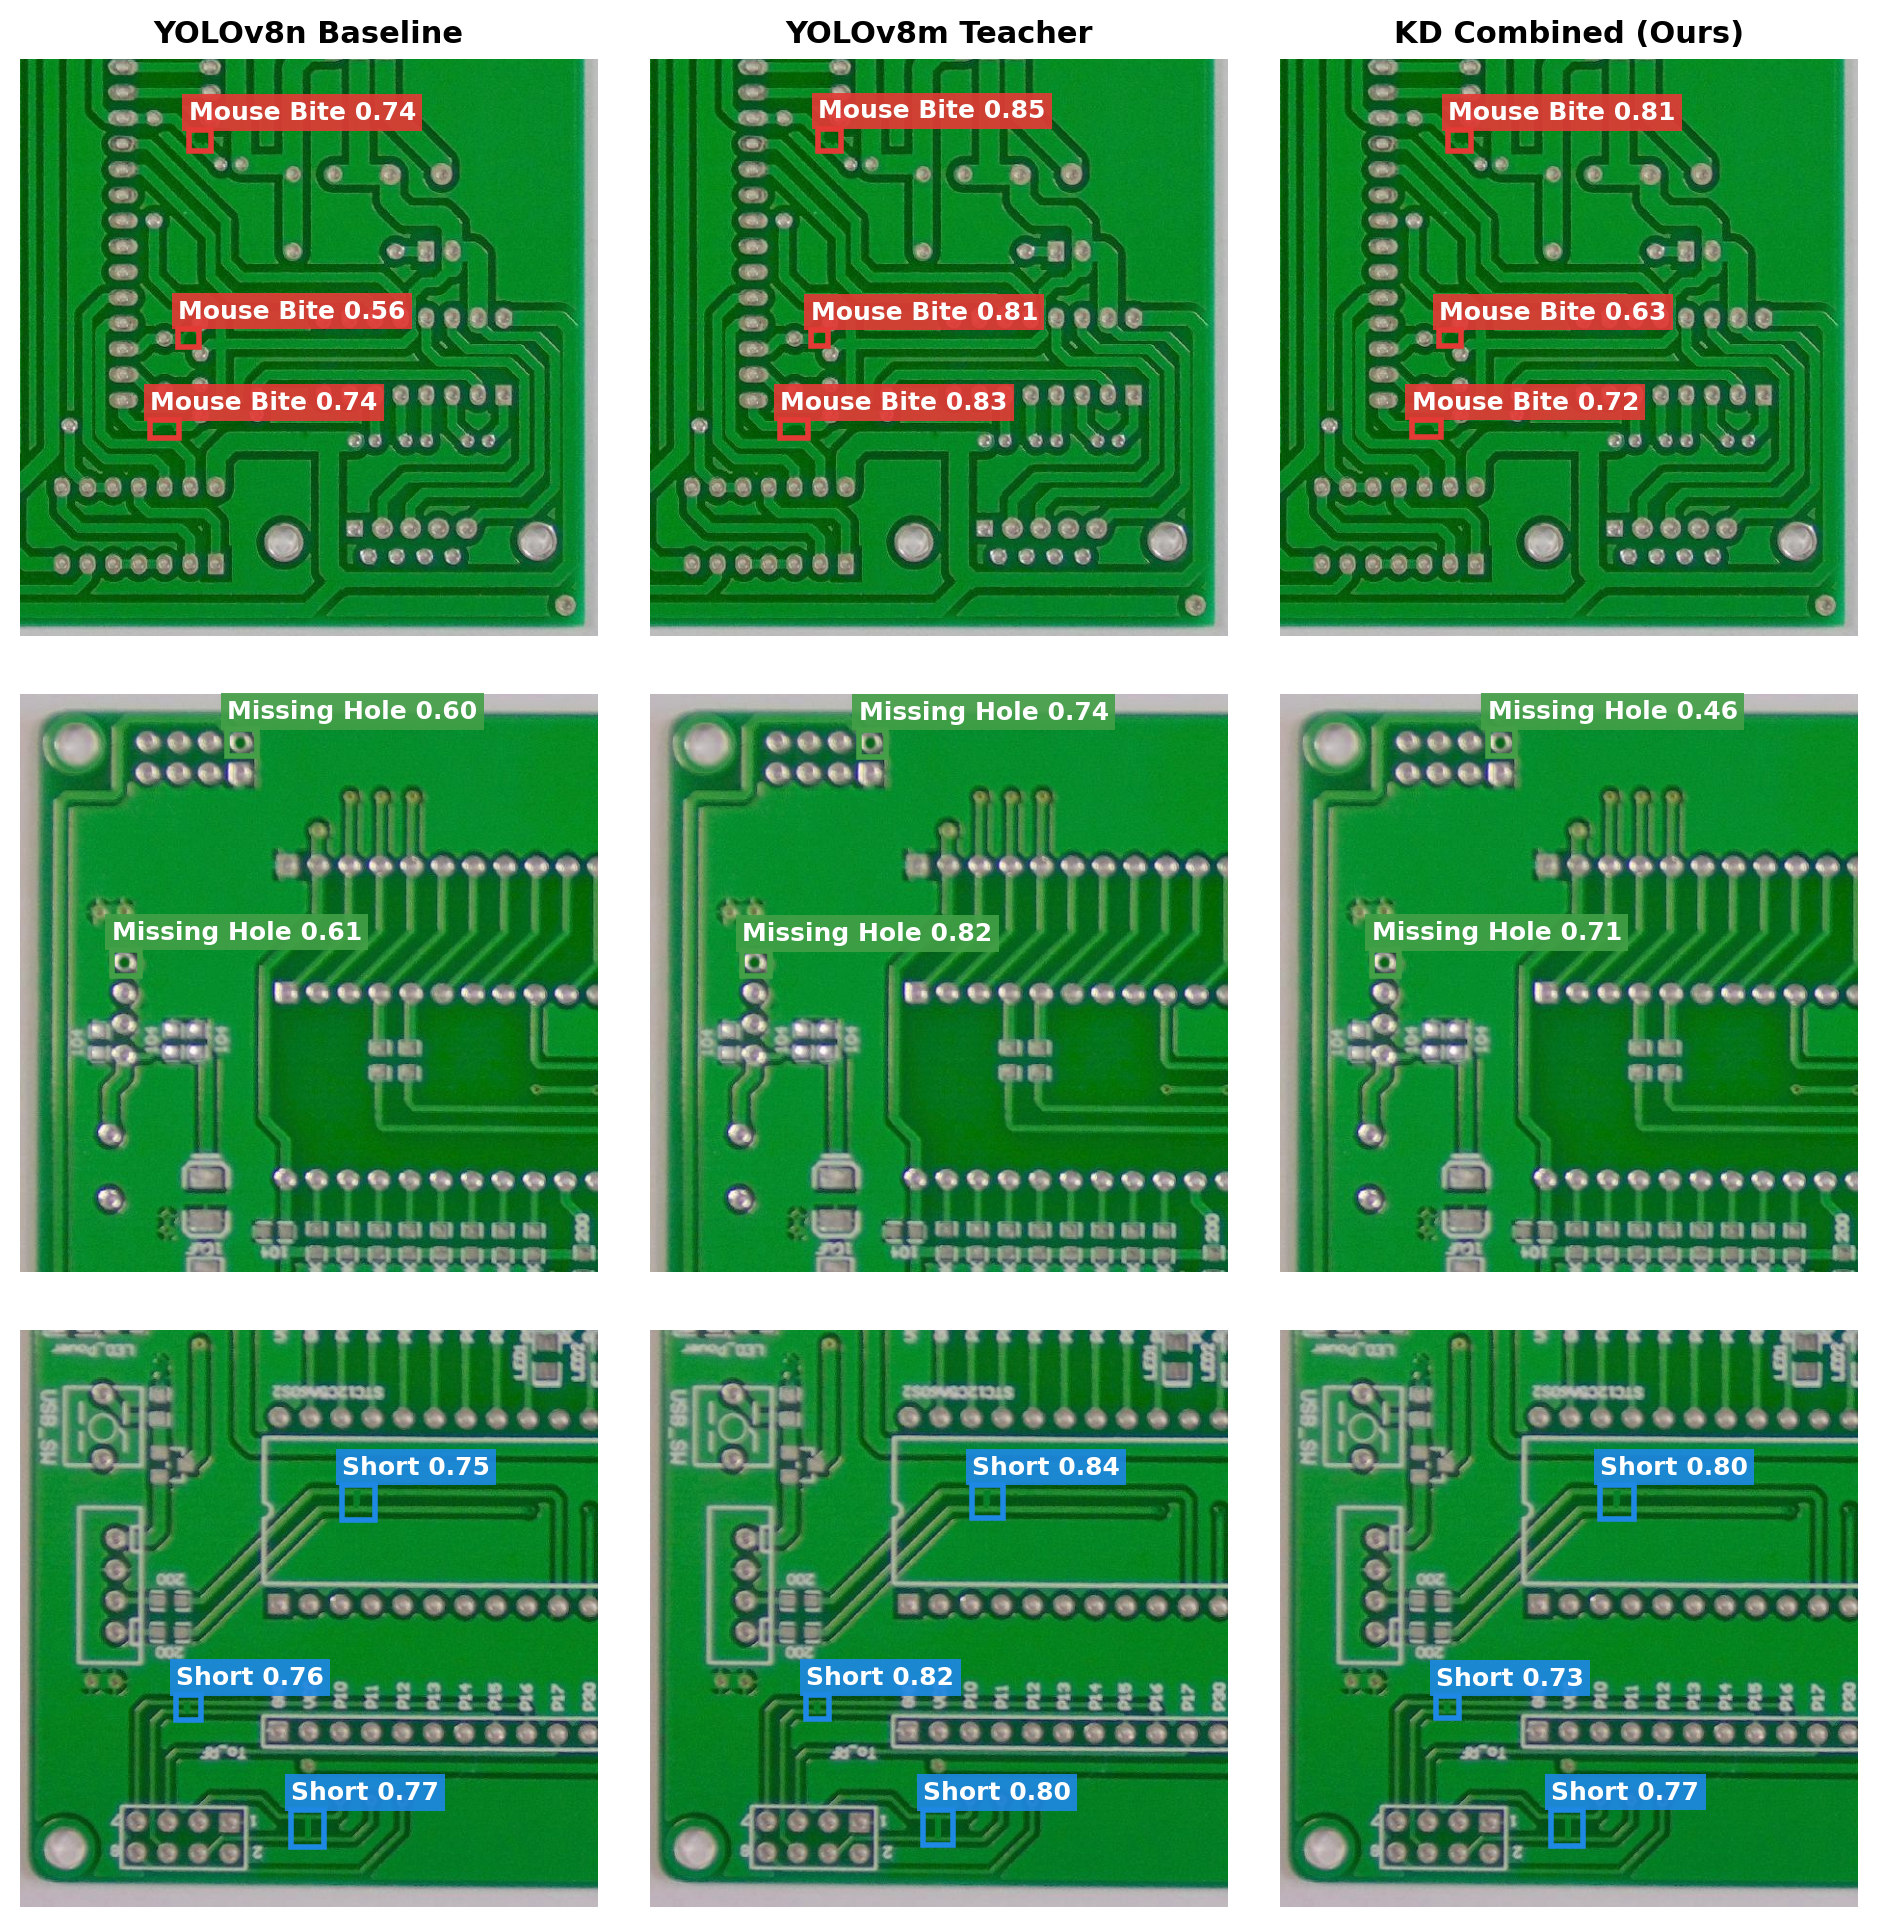
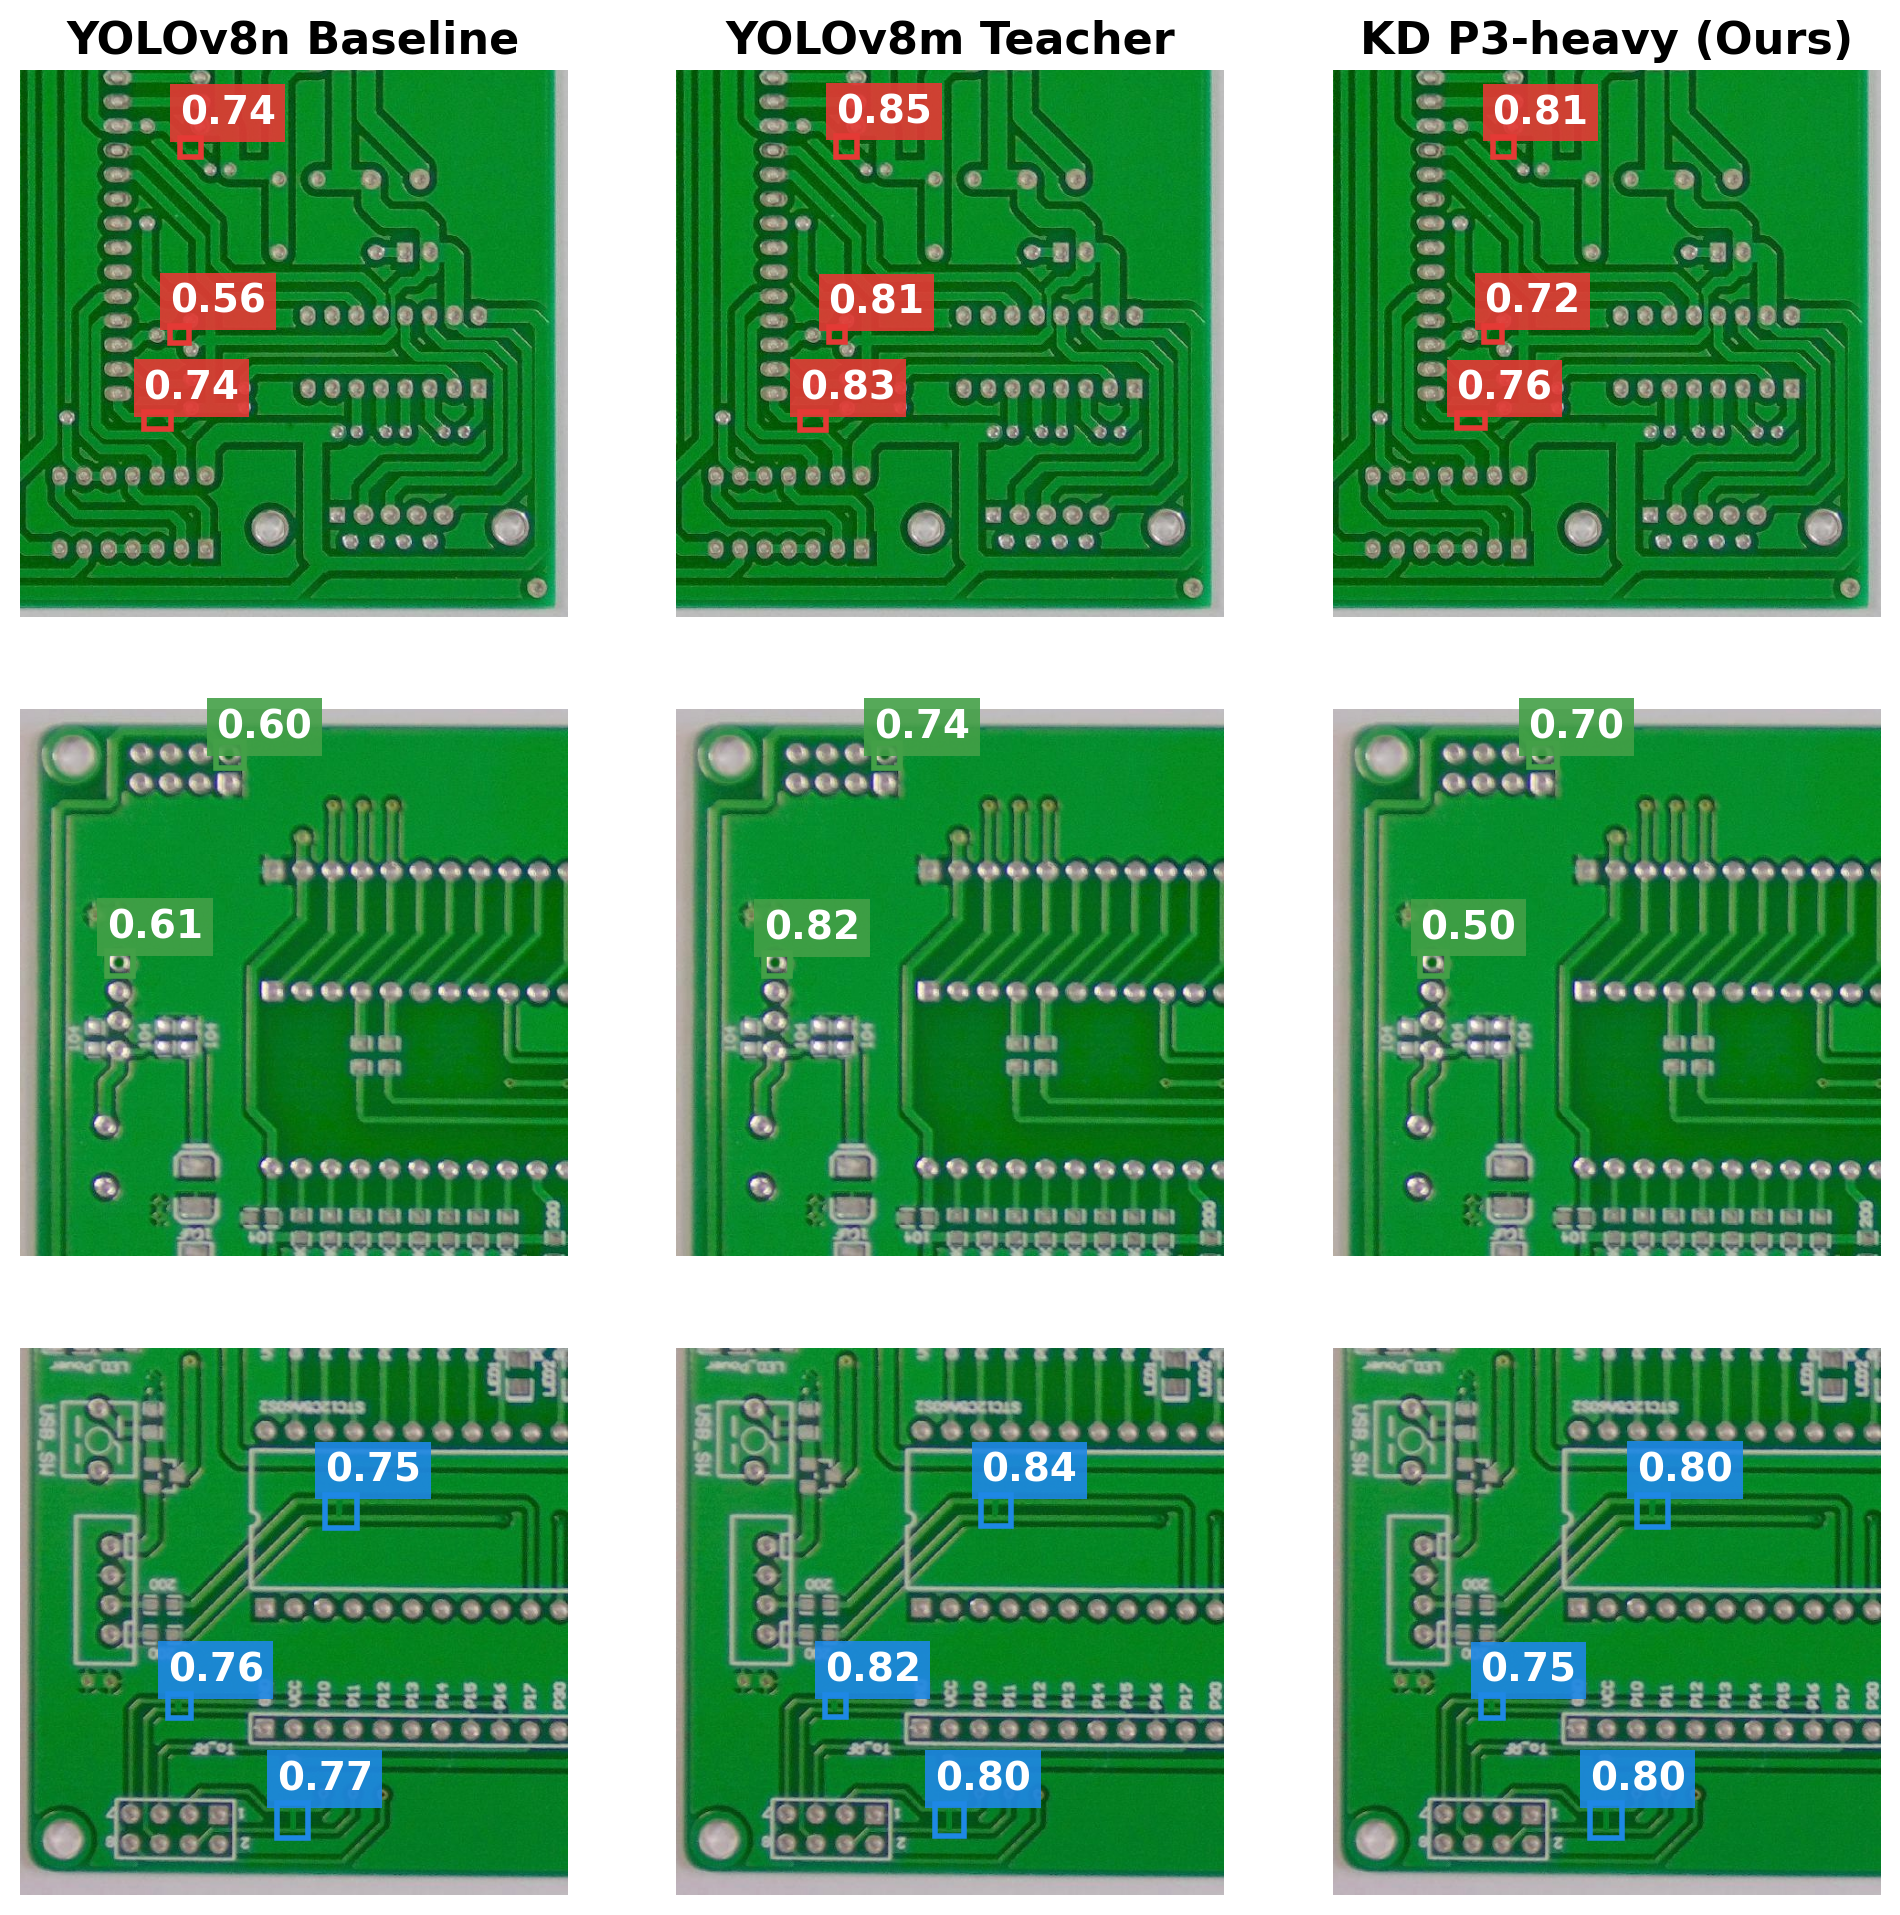
Add seed-variance script and KD pipeline diagram

diff --git a/models/kd/run_variance_seeds.py b/models/kd/run_variance_seeds.py
@@ -1,0 +1,124 @@
+"""
+run_variance_seeds.py — Repeated-seed runs for the standard-deviation
+revision requested by a reviewer.
+
+Trains Student baseline and Combined KD + P3-heavy at seeds 43 and 44
+(seed 42 results already exist from the original ablation study under
+runs/experiments/baseline/yolov8n and runs/experiments/kd/kd_combined_p3_heavy).
+Runs sequentially on a single GPU. Outputs go to new, distinctly named
+directories so the original seed-42 runs are never touched.
+
+Usage (from project root):
+    python models/kd/run_variance_seeds.py
+"""
+
+import os
+import sys
+
+sys.path.insert(0, os.path.dirname(os.path.abspath(__file__)))
+
+from ultralytics import YOLO
+from kd_trainer import KDTrainer
+
+PROJECT_ROOT = os.path.dirname(os.path.dirname(os.path.dirname(os.path.abspath(__file__))))
+TEACHER_PATH = os.path.join(PROJECT_ROOT, "runs", "experiments", "teacher", "yolov8m", "weights", "best.pt")
+DATA_YAML    = os.path.join(PROJECT_ROOT, "data", "pcb_defect.yaml")
+
+EPOCHS, BATCH_SIZE, IMAGE_SIZE, DEVICE = 200, 16, 640, "0"
+
+SHARED_OVERRIDES = dict(
+    data=DATA_YAML,
+    epochs=EPOCHS,
+    batch=BATCH_SIZE,
+    imgsz=IMAGE_SIZE,
+    device=DEVICE,
+    workers=8,
+    patience=50,
+    optimizer="SGD",
+    lr0=0.01,
+    lrf=0.1,
+    momentum=0.937,
+    weight_decay=0.0005,
+    cos_lr=True,
+    warmup_epochs=3,
+    warmup_momentum=0.8,
+    warmup_bias_lr=0.1,
+    box=7.5,
+    cls=0.5,
+    dfl=1.5,
+    hsv_h=0.015,
+    hsv_s=0.7,
+    hsv_v=0.4,
+    fliplr=0.5,
+    mosaic=0.5,
+    mixup=0.1,
+    val=True,
+    plots=True,
+    save_json=True,
+    save=True,
+    save_period=20,
+    amp=True,
+    cache=False,
+    verbose=True,
+    exist_ok=False,
+    deterministic=False,
+)
+
+BASELINE_PROJECT = os.path.join(PROJECT_ROOT, "runs", "experiments", "baseline_variance")
+KD_PROJECT       = os.path.join(PROJECT_ROOT, "runs", "experiments", "kd_variance")
+
+SEEDS = [43, 44]
+
+
+def run_baseline(seed):
+    name = f"yolov8n_seed{seed}"
+    print(f"\n{'='*65}\n  Baseline run, seed={seed}\n{'='*65}")
+    model = YOLO("yolov8n.pt")
+    model.train(
+        project=BASELINE_PROJECT,
+        name=name,
+        seed=seed,
+        **SHARED_OVERRIDES,
+    )
+
+
+def run_kd_p3_heavy(seed):
+    name = f"kd_combined_p3_heavy_seed{seed}"
+    print(f"\n{'='*65}\n  Combined KD + P3-heavy run, seed={seed}\n{'='*65}")
+    trainer = KDTrainer(
+        teacher_path=TEACHER_PATH,
+        alpha=0.7, beta=0.2, gamma=0.1, delta=0.0, temperature=4.0,
+        feat_scale_weights=[0.6, 0.3, 0.1],
+        overrides=dict(
+            model="yolov8n.pt",
+            project=KD_PROJECT,
+            name=name,
+            seed=seed,
+            **SHARED_OVERRIDES,
+        ),
+    )
+    trainer.train()
+
+
+def main():
+    if not os.path.isfile(TEACHER_PATH):
+        print(f"[ERROR] Teacher not found: {TEACHER_PATH}")
+        sys.exit(1)
+    if not os.path.isfile(DATA_YAML):
+        print(f"[ERROR] Dataset YAML not found: {DATA_YAML}")
+        sys.exit(1)
+
+    for seed in SEEDS:
+        run_baseline(seed)
+    for seed in SEEDS:
+        run_kd_p3_heavy(seed)
+
+    print("\n" + "=" * 65)
+    print("  All 4 variance runs complete.")
+    print(f"  Baseline weights : {BASELINE_PROJECT}/yolov8n_seed<43|44>/weights/best.pt")
+    print(f"  KD weights       : {KD_PROJECT}/kd_combined_p3_heavy_seed<43|44>/weights/best.pt")
+    print("=" * 65)
+
+
+if __name__ == "__main__":
+    main()

diff --git a/scripts/generate_qualitative_figure.py b/scripts/generate_qualitative_figure.py
@@ -30,7 +30,7 @@ OUT_PATH = ROOT / "paper" / "qualitative_results.png"
 WEIGHTS = [
     ("YOLOv8n Baseline",  ROOT / "runs/experiments/baseline/yolov8n/weights/best.pt"),
     ("YOLOv8m Teacher",   ROOT / "runs/experiments/teacher/yolov8m/weights/best.pt"),
-    ("KD Combined (Ours)",ROOT / "runs/experiments/kd/kd_combined/weights/best.pt"),
+    ("KD P3-heavy (Ours)",ROOT / "runs/experiments/kd/kd_combined_p3_heavy/weights/best.pt"),
 ]
 
 # IMAGES format: (display_name, model_class_name, image_path)
@@ -115,10 +115,11 @@ def draw_on_ax(ax, img_bgr, result, model_class_name, display_name):
         )
         ax.add_patch(rect)
 
-        # Show the human-readable display_name, not the model's internal name
+        # Defect type is already shown via the row's y-label, so the
+        # per-box tag only needs the confidence score to stay compact.
         ax.text(
-            x1, max(y1 - 6, 8), f"{display_name} {conf:.2f}",
-            color="white", fontsize=9, fontweight="bold",
+            x1, max(y1 - 6, 40), f"{conf:.2f}",
+            color="white", fontsize=14, fontweight="bold",
             va="bottom",
             bbox=dict(facecolor=color, edgecolor="none",
                       boxstyle="square,pad=0.25", alpha=0.9)
@@ -143,18 +144,18 @@ def main():
     fig, axes = plt.subplots(
         n_rows, n_cols,
         figsize=(n_cols * 4, n_rows * 4),
-        gridspec_kw={"wspace": 0.05, "hspace": 0.1}
+        gridspec_kw={"wspace": 0.2, "hspace": 0.12}
     )
 
     # Column titles
     for c, (name, _) in enumerate(models):
-        axes[0, c].set_title(name, fontsize=11, fontweight="bold")
+        axes[0, c].set_title(name, fontsize=16, fontweight="bold")
 
     for r, (display_name, model_class_name, img_path) in enumerate(IMAGES):
         img = cv2.imread(str(img_path))
 
         # Row label shows the human-readable defect name
-        axes[r, 0].set_ylabel(display_name, fontsize=11, fontweight="bold")
+        axes[r, 0].set_ylabel(display_name, fontsize=16, fontweight="bold")
 
         for c, (_, model) in enumerate(models):
             result = model.predict(
